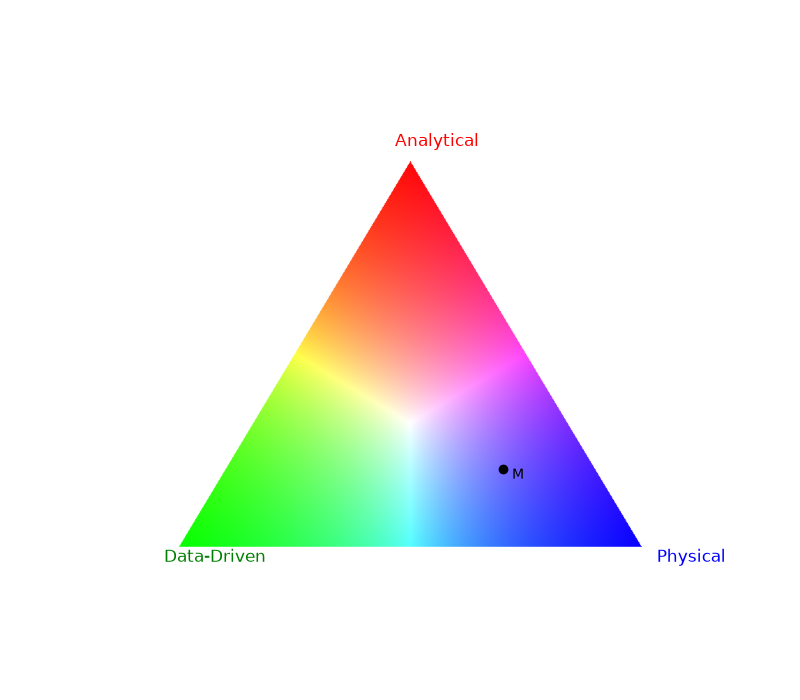
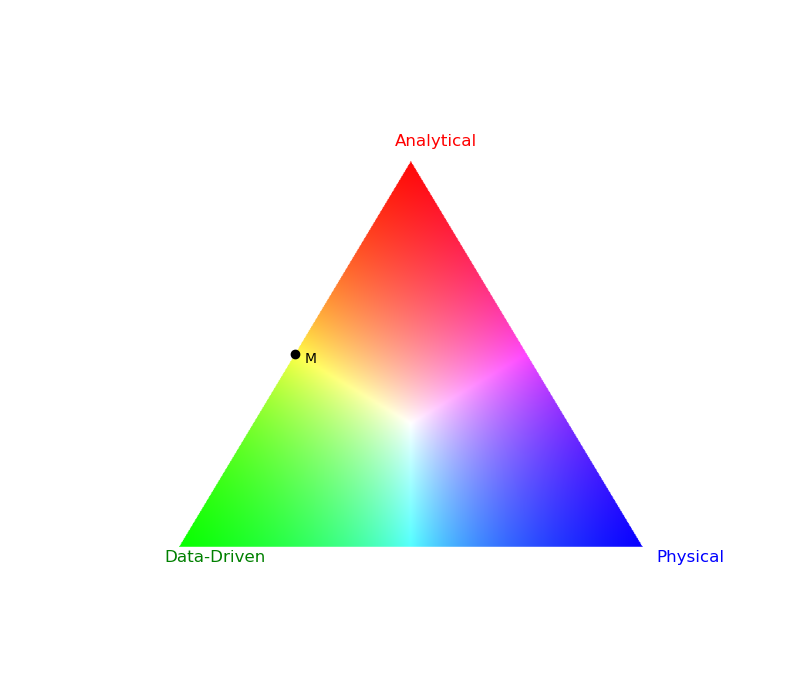
I updated the the code to accept a single point.

diff --git a/BaTri.py b/BaTri.py
@@ -1,27 +1,18 @@
 """
 barycentric_triangle.py
 
-Visualizes one or more points within a barycentric "Analytical / Data-Driven /
+Visualizes a point within a barycentric "Analytical / Data-Driven /
 Physical" (A/D/P) triangle, where each vertex is colored red/green/blue and
 interior pixels are shaded by distance to each vertex.
 
 Library usage:
     from barycentric_triangle import generate_triangle
-
-    # single point
-    generate_triangle(points=[(0.5, 0.3, 0.2)])
-
-    # multiple points, each with its own label
-    generate_triangle(
-        points=[(0.5, 0.3, 0.2), (0.1, 0.8, 0.1)],
-        labels=["Model A", "Model B"],
-    )
+    generate_triangle(point=[(0.5, 0.3, 0.2)])
 
 CLI usage:
     python barycentric_triangle.py
     python barycentric_triangle.py output.png
     python barycentric_triangle.py output.png 0.5 0.3 0.2
-    python barycentric_triangle.py output.png 0.5 0.3 0.2 0.1 0.8 0.1
 """
 
 import argparse
@@ -108,7 +99,7 @@ def _barycentric_to_xy(A, D, P, red_point, green_point, blue_point):
 def plot_triangle(
     image,
     points_xy,
-    labels,
+    label,
     red_point,
     green_point,
     blue_point,
@@ -116,24 +107,23 @@ def plot_triangle(
     show=True,
 ):
     """
-    Render the triangle image with one or more points marked on it, then save
+    Render the triangle image with a point marked on it, then save
     (and optionally show) the plot.
 
     image: (height, width, 3) float array, as returned by generate_triangle.
     points_xy: list of (x, y) pixel coordinates to mark.
-    labels: list of label strings, same length as points_xy.
+    label: label string for the point.
     red_point, green_point, blue_point: pixel coordinates of the Analytical,
-        Data-Driven, and Physical vertices (for corner label placement).
-    output_path: where to save the plot image (parent directory is created
-        automatically if it doesn't exist).
+        Data-Driven, and Physical vertices.
+    output_path: where to save the plot image.
     show: if True, also display the plot with plt.show().
     """
     plt.figure(figsize=(8, 7))
     plt.imshow(image)
 
-    for (x, y), label in zip(points_xy, labels):
-        plt.plot(x, y, marker="o", color="black", markersize=6)
-        plt.text(x + 12, y + 12, label, fontsize=10, color="black")
+    x, y = points_xy[0]
+    plt.plot(x, y, marker="o", color="black", markersize=6)
+    plt.text(x + 12, y + 12, label, fontsize=10, color="black")
 
     plt.text(
         green_point[0] - 20,
@@ -160,7 +150,7 @@ def plot_triangle(
 
 
 def generate_triangle(
-    points=None,
+    point=None,
     border=100,
     label="My Research",
     generate_plot=True,
@@ -169,21 +159,19 @@ def generate_triangle(
     height=HEIGHT,
 ):
     """
-    Build the A/D/P triangle and place one or more points on it at the given
+    Build the A/D/P triangle and place a point on it at the given
     barycentric coordinates. Optionally renders/saves/shows the plot via
     plot_triangle.
 
-    points: list of (A, D, P) tuples, one per point. A, D, P are weights
-        toward the Analytical (red), Data-Driven (green), and Physical
-        (blue) vertices; each triple is normalized automatically, so only
+    point: (A, D, P) tuple, A, D, P are weights toward the
+        Analytical (red), Data-Driven (green), and Physical (blue) 
+        vertices; each triple is normalized automatically, so only
         relative proportions matter. A single (A, D, P) tuple is also
         accepted directly. Defaults to a single centered-ish point.
-    labels: optional list of label strings, one per point. Defaults to
-        "My Research" for a single point, or "Point 1", "Point 2", ...
-        for multiple points.
+    labels: optional label string. Defaults to "My Research".
     border: pixel margin from image edges to the triangle's vertices.
     generate_plot: if True, call plot_triangle to render, save, and show the
-        plot; if False, just compute and return the image + points (useful
+        plot; if False, just compute and return the image + point (useful
         for scripting/tests).
     output_path: where to save the plot image, passed through to
         plot_triangle.
@@ -193,19 +181,15 @@ def generate_triangle(
         points_xy: list of (x, y) pixel coordinates, one per input point.
     """
 
-    if points is None:
-        points = [0.5, 0.5, 0.0]
+    if point is None:
+        point = (0.5, 0.5, 0.0)
 
     red_point = np.array([width / 2, border])  # Analytical
     green_point = np.array([border, height - border])  # Data-Driven
     blue_point = np.array([width - border, height - border])  # Physical
 
     image = _build_triangle_image(red_point, green_point, blue_point, width, height)
-    points_xy = [
-        _barycentric_to_xy(A, D, P, red_point, green_point, blue_point)
-        for A, D, P in points
-    ]
-
+    points_xy = [_barycentric_to_xy(point[0], point[1], point[2], red_point, green_point, blue_point)]
     if generate_plot:
         plot_triangle(
             image,
@@ -223,7 +207,7 @@ def generate_triangle(
 def main():
     parser = argparse.ArgumentParser(
         description=(
-            "Plot one or more points in the Analytical / Data-Driven / "
+            "Plot a point in the Analytical / Data-Driven / "
             "Physical barycentric triangle."
         )
     )
@@ -237,9 +221,7 @@ def main():
         "coords",
         nargs="*",
         type=float,
-        help="One or more points as flat A D P values, e.g. "
-        "'0.5 0.3 0.2' for one point, or "
-        "'0.5 0.3 0.2 0.1 0.8 0.1' for two points",
+        help="A D P values for the point, e.g. '0.5 0.3 0.2'",
     )
     parser.add_argument(
         "--border",
@@ -258,12 +240,12 @@ def main():
             f"Coordinates must be given as complete A D P triples (got {len(args.coords)} values)"
         )
 
-    points = None
+    point = None
     if args.coords:
-        points = [tuple(args.coords[i : i + 3]) for i in range(0, len(args.coords), 3)]
+        point = tuple(args.coords)
 
     generate_triangle(
-        points=points,
+        point=point,
         border=args.border,
         generate_plot=not args.no_plot,
         output_path=args.output,
